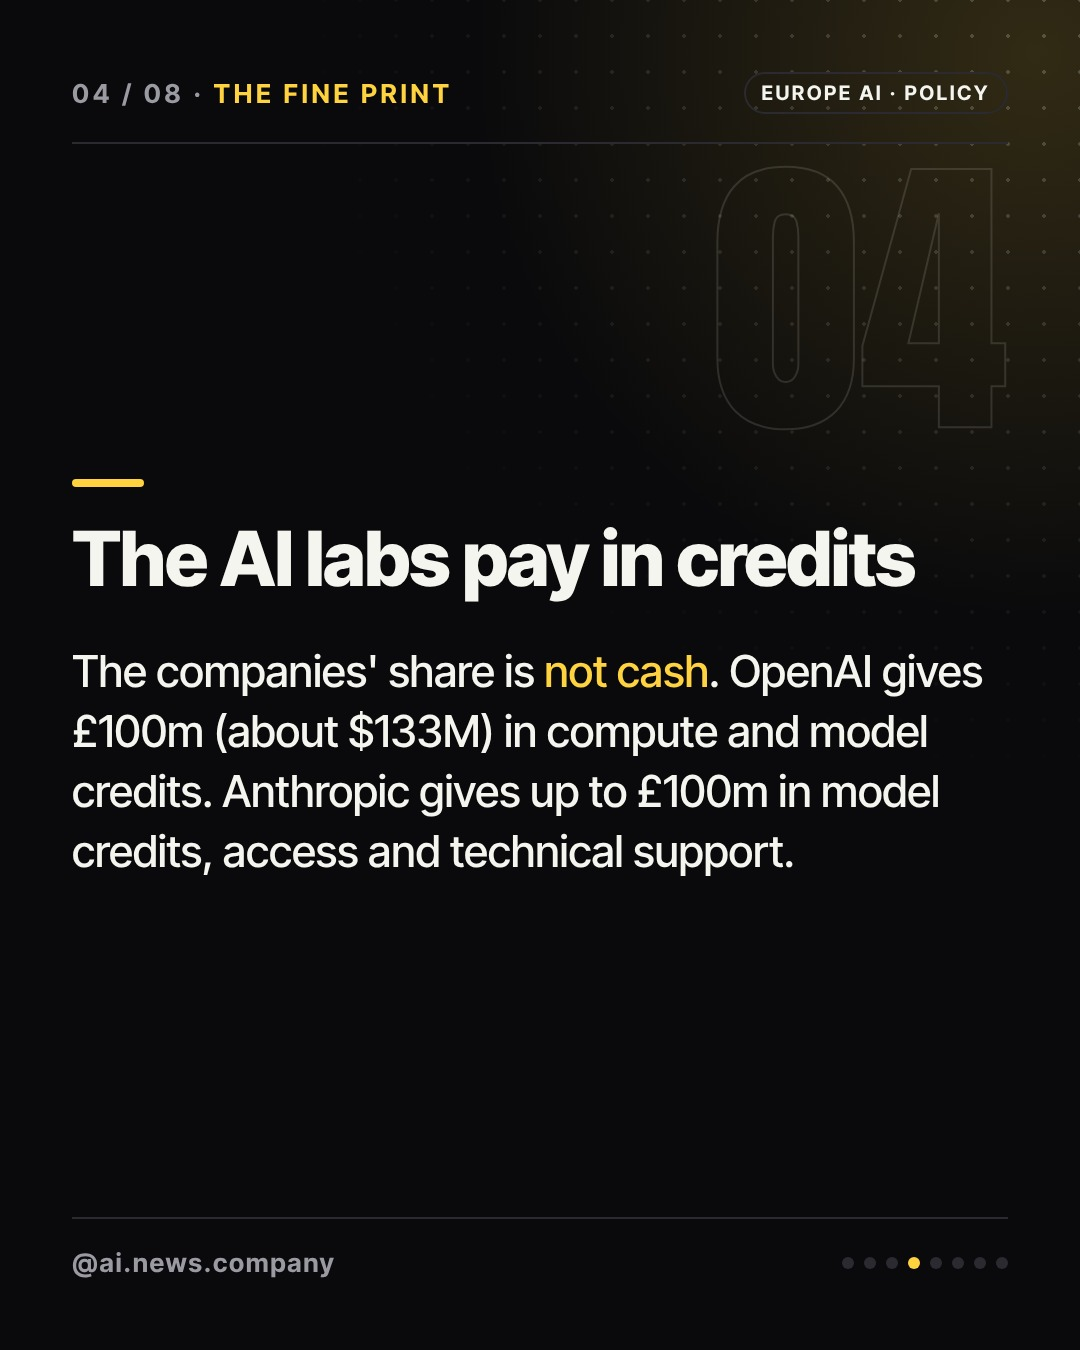
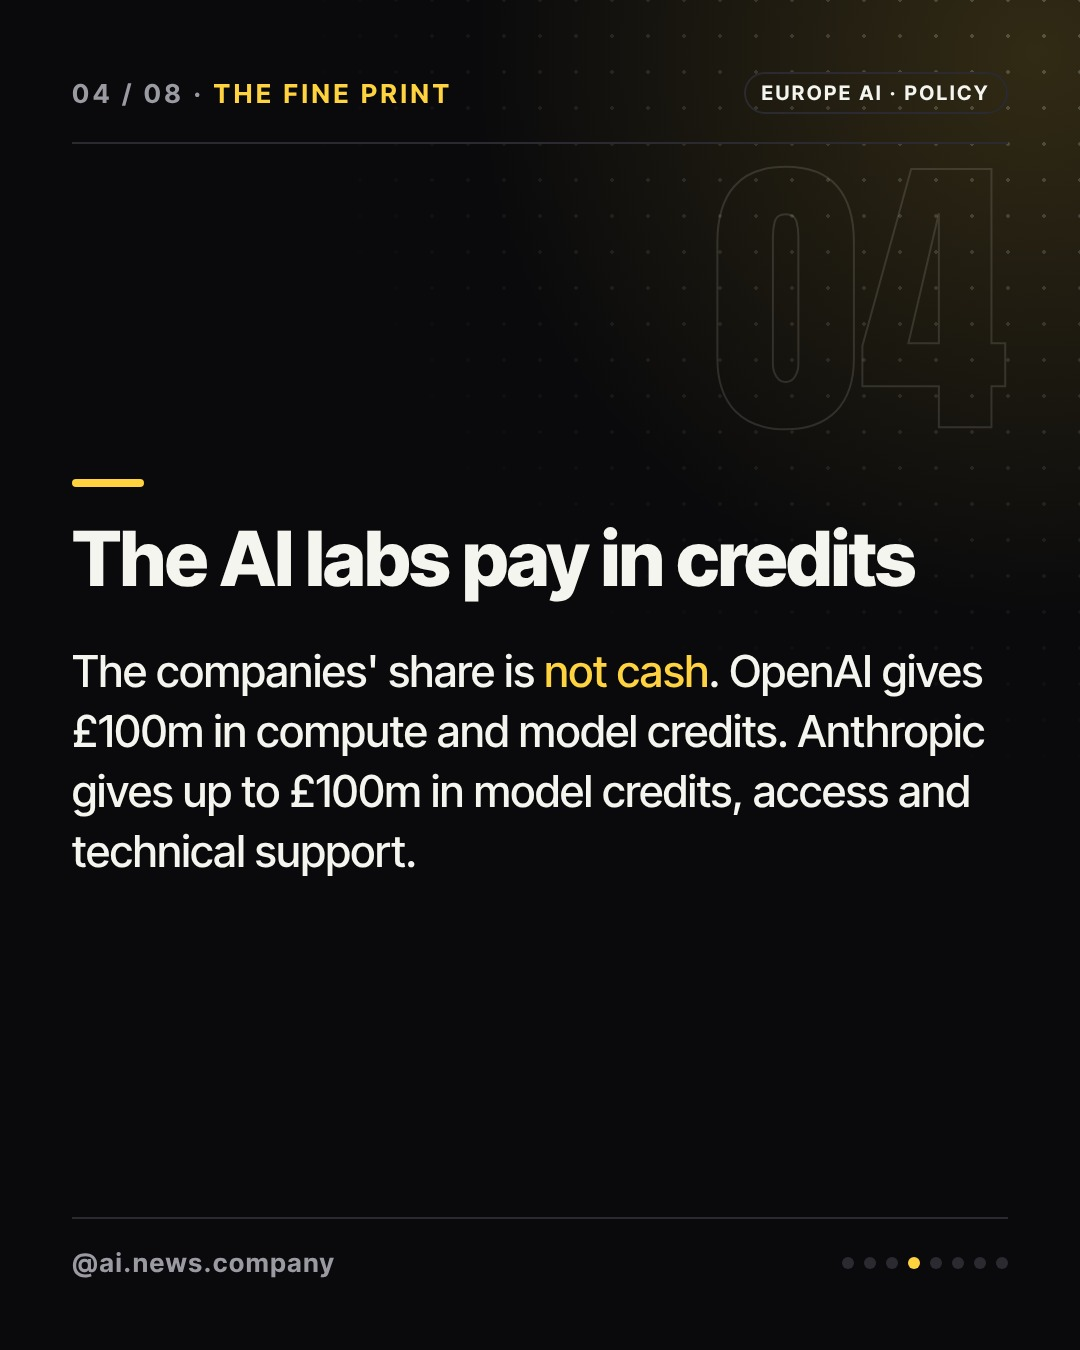
uk-ai-biosecurity-lab: pounds only, Der Standard undated, fact-check pass, ready
Claude-Session: https://claude.ai/code/session_01Fn4e52R7xV9qN6ZDo4GDbe

Changed region(s): [[0.0611, 0.5289, 0.9167, 0.6533]]

diff --git a/posts/2026-10-25-uk-ai-biosecurity-lab/review-fact.md b/posts/2026-10-25-uk-ai-biosecurity-lab/review-fact.md
@@ -1,28 +1,8 @@
-FAIL
+PASS
 
-Both sources opened with scripts/article.mjs. Der Standard is truncated to its first paragraph.
-
-Confirmed against The Next Web:
-- £100m from the UK government, up to £200m from OpenAI and Anthropic, Cabinet Office, Saturday.
-- "World's first" is the government's claim.
-- The labs' share is not cash: OpenAI £100m in compute and model credits, Anthropic up to £100m.
-- DeepMind, Basecamp Research, independent non-profit modelled on the AI Security Institute.
-- No director, site, start date or time period given.
-- More than £600m package before Wednesday's Budget.
-- Nvidia $250m, earlier this month, compute not cash.
-
-Confirmed against Der Standard:
-- Rund 600m pounds (etwa 800m dollars).
-- Narayan's aim for a major global institution, said on Saturday.
-- title_en is faithful.
-
-Dollar derivation: the arithmetic is correct (1.333 rate; $133M and $267M). Labeling is not sufficient. The slides do not say the figures are derived. Only the caption says so. The threads_caption gives them unlabeled next to a TNW-only source.
-
-Issues to fix:
-1. Slide 1: label the figures as at Der Standard's rate.
-2. threads_caption: add a label or drop the dollar figures.
-3. sources[1].date "Oct 2026" is unverified.
-
-Minor, non-blocking:
-- Slide 6 "about £600m" versus TNW "more than £600m" is acceptable.
-- Slide 5 "says he wants" paraphrases Der Standard's "Ziel sei" and TNW's "called the lab a major new global institution". Acceptable.
+Both sources opened with scripts/article.mjs (The Next Web full text; Der Standard only the lead, paywall/consent wall after it).
+- Cover, slides 1-5, caption and threads_caption match TNW exactly (GBP 100m, up to GBP 200m, Cabinet Office Saturday, credits not cash, DeepMind, Basecamp, independent non-profit, no director/site/start date, no time period, Nvidia $250m).
+- Slide 6: "about GBP 600m (about $800 million, per Der Standard)" matches Der Standard ("rund 600 Millionen Pfund (etwa 800 Millionen Dollar)"); TNW says "more than" GBP 600m, so "about" is a slight softening but not a contradiction. Budget on Wednesday matches TNW.
+- Narayan: "wants it to become a major global institution" matches Der Standard; TNW also supports it.
+- Der Standard title matches published title; title_en faithful; date "undated" is right (article shows no date).
+Minor note (not failing): the Der Standard URL in sources lacks the "/consent/tcf" path the fetch resolved to, but it is the same story id.

diff --git a/ops/run-log.md b/ops/run-log.md
@@ -3,10 +3,10 @@
 Newest first. Format is in CLAUDE.md ("보고").
 
 ## [아침 보고] 2026-10-25
-처리 2건 (ready 1 · blocked 1) · 실패 0건
+처리 2건 (ready 2) · 실패 0건
 성과: 어제 도달 13 · 팔로워 0 (변화 수집 안 됨) · 링크 클릭 0 · 최고 도달 php-ai-flaws (108)
 결정할 일
-1. UK 바이오보안 연구소 글(blocked): 2회 검수 후에도 fact-checker가 달러 환산 표기("Der Standard 환율 기준")와 Der Standard 날짜 미확인을 지적. 환산을 빼고 파운드만 쓸지, 지금 표기로 올릴지 결정 필요
+1. 없음 (UK 글은 제이미 결정으로 파운드만 표기. CLAUDE.md의 "현지 통화+달러" 규칙의 예외로 이 글에만 적용)
 2. 인스타 토큰(IG_USER_ID, IG_ACCESS_TOKEN)이 이 세션에 없어 참고 계정은 morning-scan의 reference.json으로 대체
 3. 커버 이미지 2장은 Higgsfield로 생성해 cover.png로 저장하고 실제 이미지로 렌더함
 자세한 기록
@@ -14,10 +14,10 @@ Newest first. Format is in CLAUDE.md ("보고").
 - 후보 8개 수집 (researcher). 선정: kimi-k3-1-pro(VentureBeat), uk-ai-biosecurity-lab(The Next Web, Der Standard). Grok/GPT 정치 편향 건은 민감해서 제외
 - 예비 주제 3개를 posts/_backlog/에 저장 (SK 5GW 데이터센터, DeepSeek·MiniMax 수출 등록, Block Dessa)
 - kimi-k3-1-pro: 1차 fact/hook 불합격 (DeepSeek 가격 방향, 벤치마크 출처, 훅 6/10) → 수정 후 2차 3명 모두 통과 → ready
-- uk-ai-biosecurity-lab: 1차 3명 불합격 → 2차 hook·brand 통과, fact 불합격 → 규칙대로 blocked
+- uk-ai-biosecurity-lab: 1차 3명 불합격 → 2차 hook·brand 통과, fact 불합격 → 규칙대로 blocked → 제이미 요청으로 달러 환산 삭제, Der Standard 날짜는 "undated"로 표기 → fact-checker 재검수 통과 → ready
 - 카테고리 MODELS는 lint 목록에 없어 Kimi 글은 TOOLS 태그 사용
 - 커버 2장 Higgsfield cinematic_studio_2_5로 생성 (4 크레딧; 오늘 합계 4/6)
-- 게시 순서: kimi-k3-1-pro만 게시 대상
+- 게시 순서: 폴더 이름 순
 
 ## [보충] 2026-10-24 루틴 대신 게시물 2개 준비
 처리 2건 (ready 2) · 실패 0건
